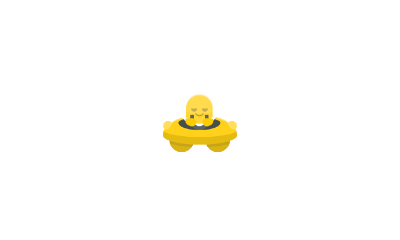
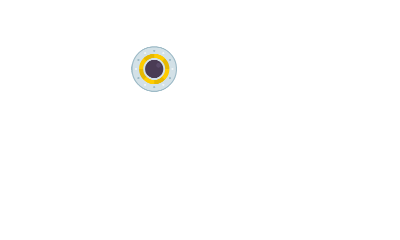
gameloop v2.0

Changed region(s): [[0.39, 0.3792, 0.6, 0.6417], [0.33, 0.175, 0.45, 0.3792]]

diff --git a/loop/engine/Render.js b/loop/engine/Render.js
@@ -1,31 +1,76 @@
 class Render {
 
-    constructor(cast,gameProperties) {
-        this.cast=cast;
+    constructor(cast, gameProperties) {
+        this.cast = cast;
+        this.gameProperties = gameProperties;
         const app = new PIXI.Application({
-            width: gameProperties.displayWidth, 
-            height: gameProperties.displayHeight, 
-            backgroundColor: "0x" + String(gameProperties.backgroundColor).substr(1), 
+            width: gameProperties.displayWidth,
+            height: gameProperties.displayHeight,
+            backgroundColor: "0x" + String(gameProperties.backgroundColor).substr(1),
         });
         document.body.appendChild(app.view);
         this.stage = new PIXI.Container();
-        app.stage.addChild(this.stage);      
-        this.sprite=[];
-        cast.forEach((actor,i)=>{
+        this.stage.position.x = gameProperties.displayWidth / 2.0;
+        this.stage.position.y = gameProperties.displayHeight / 2.0;
+        this.stage.scale.y = -1;
+        app.stage.addChild(this.stage);
+        this.sprite = [];
+        var actor = cast[0];
+        //     cast.forEach((actor, i) => {
+        for (var i = 0; i < 1000; i++) {
             var texture = player.file.loader.resources[actor.image].texture;
-            this.sprite[i]= new PIXI.Sprite(texture);
-            this.sprite[i].x = actor.x;
-            this.sprite[i].y = actor.y;
+            texture.rotate = 8;
+            this.sprite[i] = new PIXI.Sprite(texture);
+            this.sprite[i].x = this.random(-gameProperties.displayWidth / 2.0, gameProperties.displayWidth / 2.0);
+            this.sprite[i].y = this.random(-gameProperties.displayHeight / 2.0, gameProperties.displayHeight / 2.0);;
+            this.sprite[i].vx = this.random(-300, 300);
+            this.sprite[i].vy = this.random(-300, 300);
+            this.sprite[i].anchor.set(0.5);
             this.stage.addChild(this.sprite[i]);
+        }
+        //   })
+    }
+    //A `randome` helper function
+    random(min, max) {
+        return Math.floor(Math.random() * (max - min + 1)) + min;
+    }
+    update(deltaTime) {
+        this.sprite.forEach(sprite => {
+            sprite.previousX = sprite.x;
+            sprite.previousY = sprite.y;
+
+            sprite.x += sprite.vx * deltaTime;
+            sprite.y += sprite.vy * deltaTime;
+
+            //Screen boundaries Left
+            if (sprite.x <= (-this.gameProperties.displayWidth / 2.0)) {
+                sprite.x = -this.gameProperties.displayWidth / 2.0;
+                sprite.vx = -sprite.vx;
+            }
+            //Right
+            if (sprite.x >= (this.gameProperties.displayWidth / 2.0)) {
+                sprite.x = this.gameProperties.displayWidth / 2.0;
+                sprite.vx = -sprite.vx;
+            }
+            //Top
+            if (sprite.y <= (-this.gameProperties.displayHeight / 2.0)) {
+                sprite.y = -this.gameProperties.displayHeight / 2.0;
+                sprite.vy = -sprite.vy;
+            }
+            //Bottom
+            if (sprite.y >= (this.gameProperties.displayHeight / 2.0)) {
+                sprite.y = this.gameProperties.displayHeight / 2.0;
+                sprite.vy = -sprite.vy;
+            }
         })
     }
 
     draw(lagOffset) {
 
-        this.cast.forEach((actor,i) => {
-
-            this.sprite[i].x += 2 * lagOffset;
- 
+        this.sprite.forEach(sprite => {
+         //   console.log(sprite.x, " - ", sprite.previousX, " - ", lagOffset);
+            sprite.x = (sprite.x - sprite.previousX) * lagOffset + sprite.previousX;
+           sprite.y = (sprite.y - sprite.previousY) * lagOffset + sprite.previousY;
         });
     }
 

diff --git a/loop/engine/Engine.js b/loop/engine/Engine.js
@@ -4,8 +4,8 @@ class Engine {
         this.render = new Render(gameModel.sceneList[0].actorList,gameModel.properties); 
         window.requestAnimationFrame(this.gameLoop.bind(this));
         this.fpsText=document.getElementById("fps");
-        this.fps = 60;
-        this.previous = 0;
+        this.fps = 60.0;
+        this.previous = 0.0;
         this.frameDuration = 1000 / this.fps;
         this.lag= 0.0;
     }
@@ -29,7 +29,7 @@ class Engine {
             //capturePreviousPositions(sprites);
 
             //Update the logic
-            //update();
+            this.render.update(this.frameDuration/1000);
 
             //Reduce the lag counter by the frame duration
             this.lag -= this.frameDuration; 
